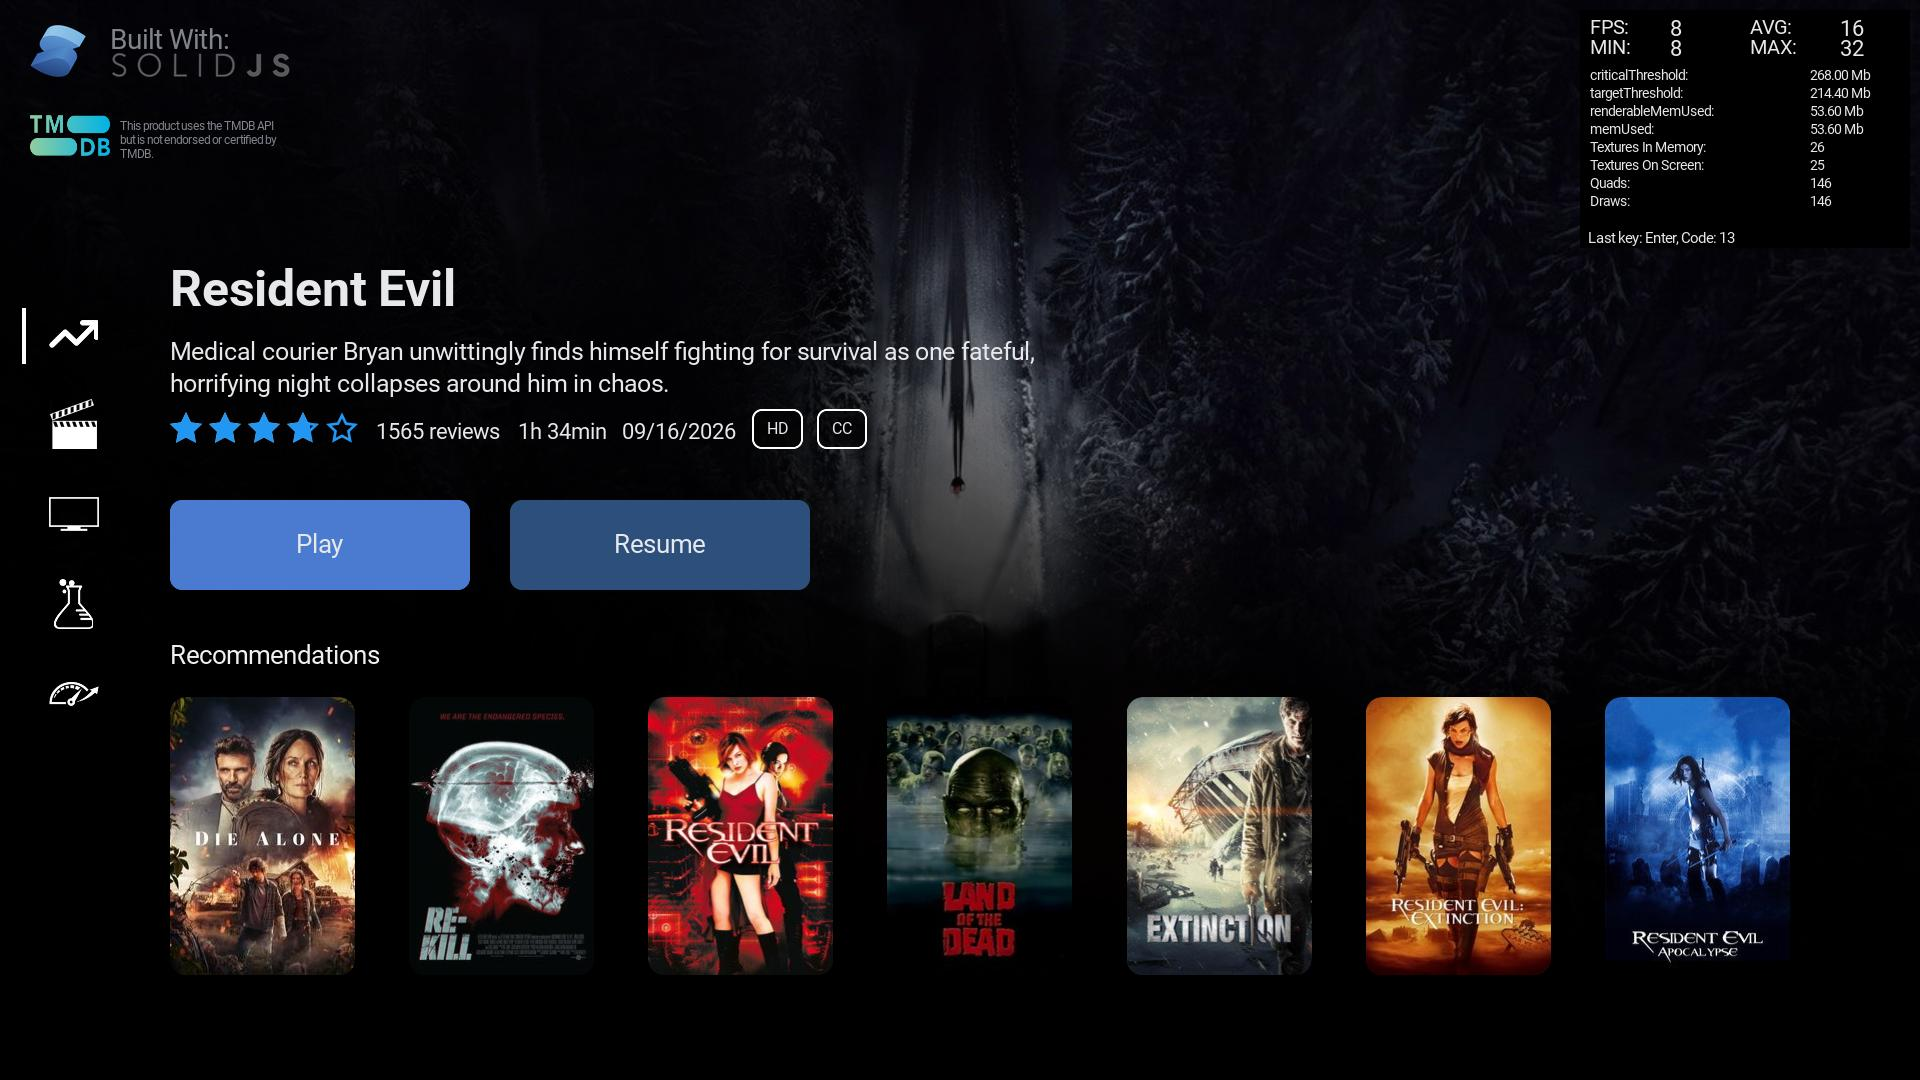
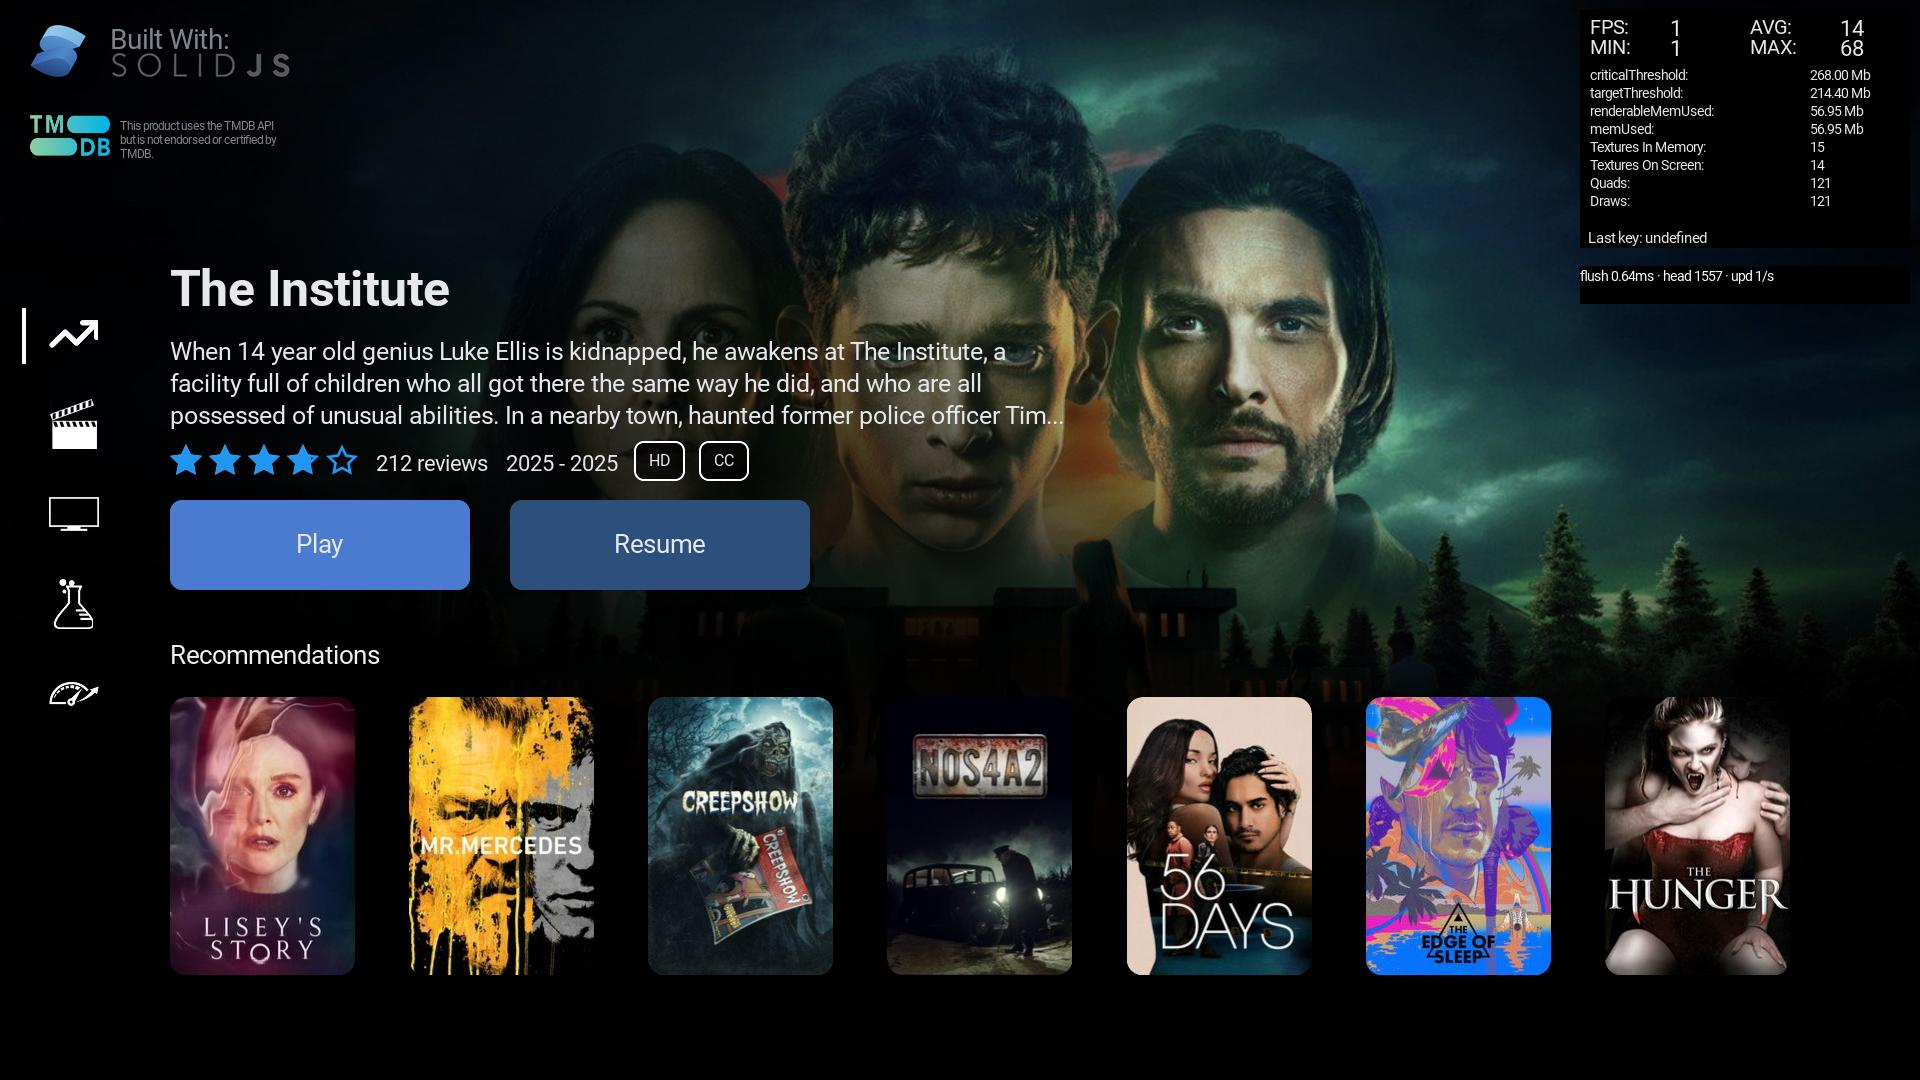
Show actual update FPS and separate frame-time headroom

diff --git a/roku-native/src/roku/renderer.ts b/roku-native/src/roku/renderer.ts
@@ -41,6 +41,8 @@ export class SceneGraphRenderer extends Events {
   private flushSamples = 0;
   private memMonitor: any = null;
   private lastStats = { visuals: 0, textures: 0, visibleTextures: 0 };
+  private perfBox: RokuNode | null = null;
+  private perfLabel: RokuNode | null = null;
 
   constructor(settings: any = {}, rootId: any = 'app') {
     super();
@@ -54,25 +56,38 @@ export class SceneGraphRenderer extends Events {
     // scene (usually inside a Scene with a solid background).
     this.root = new RokuNode(this, { w: APP_W, h: APP_H }, this.nativeRoot || undefined, false);
     this.root.parent = null;
+    // Native-only diagnostics under the shared FPS panel. The panel itself
+    // reports the actual dirty-update rate; this line reports the frame-time
+    // capacity separately so the two cannot be confused.
+    this.perfBox = new RokuNode(this, { w: 330, h: 38, x: 1580, y: 266, zIndex: 10001, color: 0x000000ff }, undefined, false);
+    this.perfBox.parent = this.root;
+    this.perfLabel = new RokuNode(this, {
+      w: 320, h: 32, x: 0, y: 3, fontSize: 14, color: 0xffffffff,
+      text: 'perf: waiting', contain: 'width',
+    }, undefined, true);
+    this.perfLabel.parent = this.perfBox;
     (globalThis as any).__rokuRenderer = this;
     this.fpsTimer = setInterval(() => {
       const updates = this.frameCount;
       const samples = this.flushSamples;
       const avgMs = samples > 0 ? this.flushMsSum / samples : 0;
       const maxMs = this.flushMsMax;
-      // The panel is a performance meter. Report the frame-time capacity
-      // (1000 / avg render cost), not the dirty update count: a dirty-driven
-      // renderer may update only 9 times in an idle second while still having
-      // plenty of headroom. The actual update count is kept in `updates`.
       const capacityFps = samples > 0 ? Math.max(1, Math.round(1000 / Math.max(0.1, avgMs))) : 0;
       this.frameCount = 0;
       this.flushMsSum = 0;
       this.flushMsMax = 0;
       this.flushSamples = 0;
-      if (updates > 0 && capacityFps > 0) {
+      if (this.perfLabel) {
+        this.perfLabel.text = updates > 0
+          ? 'flush ' + avgMs.toFixed(2) + 'ms · head ' + capacityFps + ' · upd ' + updates + '/s'
+          : 'idle · upd 0/s';
+      }
+      // The panel's FPS is the number of dirty frames actually produced this
+      // second (0 is valid); frame-time headroom is carried separately.
+      this.emit('fpsUpdate', { fps: updates, updates, avgFlushMs: avgMs, maxFlushMs: maxMs, capacityFps });
+      if (updates > 0) {
         const stats = this.collectStats();
         this.lastStats = stats;
-        this.emit('fpsUpdate', { fps: capacityFps, updates, avgFlushMs: avgMs, maxFlushMs: maxMs, capacityFps });
         this.emit('renderUpdate', { quads: stats.visuals, renderOps: stats.visuals });
         console.log(
           'ROKU_PERF updates=' + updates +

diff --git a/roku-native/roku-config.ts b/roku-native/roku-config.ts
@@ -64,6 +64,14 @@ const plugin={name:'solidtv-scenegraph-host',setup(build:any){
   if(args.path===path.join(shared,'fonts.ts'))return {contents:'export default [];',loader:'js'};
   if(!args.path.startsWith(shared+'/')&&!args.path.includes('/@solidtv/solid/'))return;
   let source=await readFile(args.path,'utf8');
+  if(args.path.endsWith('/primitives/FPSCounter.tsx')||args.path.endsWith('/primitives/FPSCounter.jsx')){
+   // The shared panel was written for WebGL, where idle still draws. The
+   // native renderer is dirty-driven, so allow 0 and show the real produced
+   // update rate instead of retaining the last non-zero value. The published
+   // package resolves to FPSCounter.jsx; the source checkout uses .tsx.
+   source=source.replace(/if \(fps > 5\) \{/,'if (fps >= 0) {').replace(/if \(!fps\)\s*return;?/,'if (typeof fps !== "number") return;');
+   if(!source.includes('if (fps >= 0) {')||!source.includes('typeof fps !== "number"'))throw Error('Could not patch FPSCounter for native idle 0');
+  }
   if(args.path===path.join(shared,'pages/Player.tsx')){
    const from='https://bitdash-a.akamaihd.net/content/sintel/hls/playlist.m3u8';
    const to='https://test-streams.mux.dev/x36xhzz/x36xhzz.m3u8';

diff --git a/roku-native/VERIFICATION.md b/roku-native/VERIFICATION.md
@@ -11,7 +11,7 @@ Web references: 1920x1080 Chrome captures with the same live API.
 
 - `node_modules/.bin/tsc --noEmit -p tsconfig.json` → **0 host errors**.
 - `rk build --local` (type checks enabled) → **Type checks passed**,
-  695,122-byte program bundle (live-TMDB build).
+  695,552-byte program bundle (live-TMDB build).
 - Deploy: `rk dev --local --no-build --sideload --bump-build --out-dir dist-build`.
 - The Roku build now defines `import.meta.env.VITE_USE_NEW_FLEX = 'true'`, so
   native uses **the same flex engine as the web app** (`flexLayout.ts`, not the
@@ -42,7 +42,7 @@ Web references: 1920x1080 Chrome captures with the same live API.
 | Keyboard interaction | `evidence/login-newflex.png`, `login-final-prod.png` | keys render; typing/backspace path unchanged |
 | Playback | ECP `/query/media-player` | HLS `state=play`, position advances, duration 634567 ms |
 | Pause / seek / exit | ECP after Play/Fwd/Back | `pause`, position moved, `close`, details visible |
-| FPS semantics | `evidence/fps-idle-trace.txt`, `evidence/cap-browse2.png` | idle 0 updates; panel shows frame-time capacity (e.g. 1557); `updates` remains in payload/log |
+| FPS semantics | `evidence/final-browse-panel.png`, `evidence/now-fresh.png` | panel shows actual produced updates (29/s active, MIN 1 idle); native line `flush 0.63ms · head 1578 · upd 29/s` |
 | 50-cycle matrix | `evidence/matrix-50-cycles-live.txt` (live) and `matrix-50-cycles-offline.txt` (fixtures) | no crash; memory plateau; textures 49–65 |
 | Gap reporting | console `ROKU_EFFECT_GAP shadow`, `ROKU_TEXTURE_GAP`, `ROKU_TEXT_GAP`, `ROKU_COLOR_GAP` | explicit, not silent |
 
@@ -69,10 +69,10 @@ Web references: 1920x1080 Chrome captures with the same live API.
    Label actually uses, retries transient failures, and a font-version hook
    dirties all text nodes so a face that becomes measurable after first paint
    reflows the UI.
-6. **FPS panel now reports frame-time capacity.** It uses
-   `1000 / avgFlushMs`, not the dirty-update count; the actual update count is
-   in `updates` and `ROKU_PERF`. Idle emits no sample, so the last capacity is
-   retained.
+6. **FPS panel now reports the produced update rate.** The shared panel gets
+   `fps: updates` (0/1 while idle, 29 while navigating). Frame-time capacity is
+   shown separately in the native diagnostics line (`flush … ms · head … ·
+   upd …/s`) and carried on `fpsUpdate`/`ROKU_PERF`.
 7. **CSS half-leading for native labels.** Roku paints the first line at the
    top of its line box. Labels now translate by `(lineHeight − naturalLineHeight)
    / 2`, matching CSS. This centers Play/Resume button text, HD/CC badges and
@@ -83,11 +83,12 @@ Web references: 1920x1080 Chrome captures with the same live API.
    browser-services layer wraps the shared web call’s `(url, {headers})` into a
    `Request`; the Bearer token is now actually sent. Real backdrops, posters,
    titles and metadata load on device.
-9. **Frame-time telemetry.** Each `flushDirty()` batch is timed; the 1 s timer
-   emits `avgFlushMs`, `maxFlushMs` and `capacityFps` on `fpsUpdate` and logs
-   `ROKU_PERF updates=… avgFlushMs=… maxFlushMs=… capacityFps=…` in builds that
-   keep console. This separates render cost/headroom from the actual update
-   rate shown by the shared panel.
+9. **Frame-time telemetry and a separate native line.** Each `flushDirty()`
+   batch is timed; the 1 s timer emits `updates`, `avgFlushMs`, `maxFlushMs`
+   and `capacityFps` on `fpsUpdate`, and a native-only line under the panel
+   shows `flush … ms · head … · upd …/s`. The shared FPSCounter is patched at
+   build time to accept 0, so idle shows the real one-update-per-second
+   diagnostic rate instead of retaining an old number.
 
 ## Current 1:1 deltas
 
@@ -100,12 +101,12 @@ Web references: 1920x1080 Chrome captures with the same live API.
   overview’s line count (content-dependent).
 - **Login keyboard:** Username 2 px lower, action-key labels 2 px higher than
   web; key width/fill/labels now match.
-- **FPS panel:** the displayed FPS is now **frame-time capacity**
-  (`capacityFps = 1000 / avgFlushMs`), so it reflects render headroom rather
-  than the number of dirty updates in the last second. The actual update count
-  is still emitted as `updates` and logged in `ROKU_PERF`. The panel is not
-  panel refresh; the compositor refreshes independently. A slow first frame
-  shows as a low `MIN` while `MAX`/`AVG` show the capacity once warm.
+- **FPS panel:** the displayed FPS is the **actual number of dirty update
+  frames produced** in the last second (29 while navigating, 1 at idle because
+  the panel/perf line itself updates once). It is not panel refresh; the
+  compositor refreshes independently. Frame-time headroom is the separate
+  native line (`flush 0.63 ms · head 1578 · upd 29/s`) and the `ROKU_PERF`
+  payload, not the shared FPS number.
 - **Player:** ECP captures omit the hardware video plane. Web player capture
   is also black because headless Chrome has no video plane. Verify playback via
   `/query/media-player`.

diff --git a/roku-native/HANDOFF.md b/roku-native/HANDOFF.md
@@ -77,9 +77,9 @@ Renderer-specific gaps must be reported, not silently hidden.
   `registerShaderType`, `measureText`, `getCapabilities`, `memoryInfo`,
   event emitter, `requestRender`, `defer`, `pause/resume`, `destroy`.
 - Batched `flush()` loop; animation ticker at 16 ms; 1 s FPS timer.
-- The FPS number is **frame-time capacity** (`1000 / avgFlushMs`), not the
-  dirty-update count and not panel refresh. The actual update count is
-  `updates`; `ROKU_PERF` logs updates/avg/max/capacity.
+- The FPS panel shows the **actual produced dirty-update rate** (29/s while
+  navigating, 1/s at idle). Frame-time headroom is the separate native line
+  (`flush … ms · head … · upd …/s`) and `ROKU_PERF`, not the panel FPS.
 - `memoryInfo()` now uses `getAppMemoryMonitor()` from
   `@roku-sdk/rsg-ts/runtime` and reports live channel limits/percent-used plus
   texture/visual counts. Thresholds are approximate (80%/64% of limit).
@@ -177,7 +177,7 @@ ROKU_DEV_CONFIG_PATH="<workspace>/my-first-app/.roku/guide-device-config.json" \
 node_modules/.bin/rk build --local
 ```
 
-Latest: **Type checks passed**, 695,122-byte JS bundle (live-TMDB build).
+Latest: **Type checks passed**, 695,552-byte JS bundle (live-TMDB build).
 
 Deploy the built bundle:
 
@@ -300,10 +300,11 @@ curl -s http://<ROKU_IP>:8060/query/media-player
     browser-services layer converts the shared API's `(url, { headers })` call
     into a `Request`; the Bearer token reaches TMDB and real backdrops/posters
     load. The fixture API remains for deterministic runs.
-17. **Frame-time telemetry / FPS panel.** `flushDirty()` batches are timed; the
-    1 s timer reports `capacityFps = 1000 / avgFlushMs` to the shared panel and
-    carries `updates`, `avgFlushMs`, `maxFlushMs` and `capacityFps` on
-    `fpsUpdate`. `ROKU_PERF` logs the same in console-preserving builds.
+17. **FPS panel and frame-time telemetry.** The shared panel now shows the
+    actual produced dirty-update rate; the build patches its `fps > 5`/`!fps`
+    guards to accept 0. A native line underneath shows
+    `flush … ms · head … · upd …/s`; `fpsUpdate`/`ROKU_PERF` carry
+    `updates`, `avgFlushMs`, `maxFlushMs`, `capacityFps`.
 
 ## Remaining work (priority order)
 
@@ -314,10 +315,10 @@ curl -s http://<ROKU_IP>:8060/query/media-player
    - Login: Username 2 px lower, action-key labels 2 px higher than web.
    - Details: title top 271 px on both; buttons/recommendations aligned.
    Fix only with equal 1:1 crops; do not shift all text blindly.
-2. **FPS panel semantics.** It now reports frame-time capacity
-   (`1000 / avgFlushMs`); the actual dirty-update count is `updates` in the
-   payload/`ROKU_PERF`. This is render headroom, not panel refresh. The idle
-   case emits no sample and retains the last capacity.
+2. **FPS panel semantics.** It now shows the actual produced dirty-update
+   rate (0/1 at idle, ~29 while navigating); the native line under it shows
+   frame-time headroom (`flush … ms · head … · upd …/s`). The panel is not
+   panel refresh.
 3. **Web references** now exist for Browse, Examples, Details and Login.
    `web-player-1920.png` is black because headless Chrome (like ECP) has no
    hardware video plane; compare the Player overlay on the TV directly.

diff --git a/ROKU-NATIVE.md b/ROKU-NATIVE.md
@@ -106,12 +106,18 @@ not give each iteration its own binding) and substitutes the renderer boundary.
 
 ### FPS / frame-time metrics
 
-The panel reports **frame-time capacity** (`capacityFps = 1000 / avgFlushMs`),
-so it measures render headroom rather than the number of dirty updates in the
-last second. The renderer is dirty-driven; the actual update count is emitted
-as `updates` and logged in `ROKU_PERF` (`updates`, `avgFlushMs`, `maxFlushMs`,
-`capacityFps`) in builds that keep `console`. Capacity is not panel refresh —
-the compositor refreshes independently.
+The shared panel shows the **actual produced dirty-update rate**: 29/s while
+navigating and 1/s at idle (the panel/perf line itself produces one update).
+Frame-time headroom is shown separately in the native diagnostics line under
+the panel:
+
+```text
+flush 0.63ms · head 1578 · upd 29/s
+```
+
+`fpsUpdate` carries `updates`, `avgFlushMs`, `maxFlushMs` and `capacityFps`;
+`ROKU_PERF` logs the same in builds that keep `console`. The panel is not
+panel refresh — the compositor refreshes independently.
 
 ## Known renderer gaps
 
